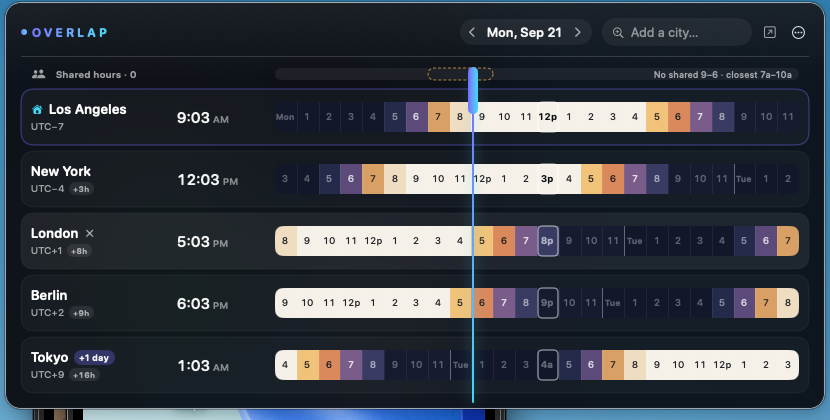
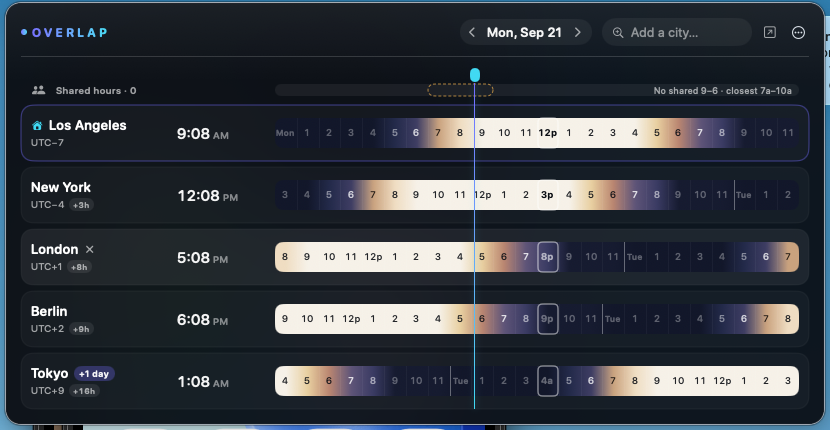
Smooth sky-gradient strips, lighter now marker with pill lane, centered selection pill

diff --git a/Overlap/ContentView.swift b/Overlap/ContentView.swift
@@ -34,31 +34,36 @@ struct ContentView: View {
                 Divider().overlay(Color.white.opacity(0.08))
                     .padding(.vertical, 10)
 
-                BestWindowsBar(store: store,
-                               date: selectedDate,
-                               home: home,
-                               selection: $selection)
-                    .padding(.bottom, 8)
+                VStack(alignment: .leading, spacing: 0) {
+                    // 16pt lane above the track: holds the now-time pill
+                    Color.clear.frame(height: 16)
+                        .overlay(alignment: .topLeading) { nowPill }
 
-                // Rows
-                VStack(spacing: 6) {
-                    ForEach(store.places) { place in
-                        PlaceRow(place: place,
-                                 date: selectedDate,
-                                 now: now,
-                                 home: home,
-                                 use24: use24,
-                                 isToday: isToday,
-                                 hoverHour: $hoverHour,
-                                 selection: $selection)
-                        .transition(.asymmetric(insertion: .push(from: .top).combined(with: .opacity),
-                                                removal: .opacity))
+                    BestWindowsBar(store: store,
+                                   date: selectedDate,
+                                   home: home,
+                                   selection: $selection)
+                        .padding(.bottom, 8)
+
+                    // Rows
+                    VStack(spacing: 6) {
+                        ForEach(store.places) { place in
+                            PlaceRow(place: place,
+                                     date: selectedDate,
+                                     now: now,
+                                     home: home,
+                                     use24: use24,
+                                     isToday: isToday,
+                                     hoverHour: $hoverHour,
+                                     selection: $selection)
+                            .transition(.asymmetric(insertion: .push(from: .top).combined(with: .opacity),
+                                                    removal: .opacity))
+                        }
                     }
+                    .overlay(alignment: .topLeading) { selectionPill }
+                    .animation(.snappy, value: store.places)
                 }
-                .overlay(alignment: .topLeading) {
-                    stripOverlay
-                }
-                .animation(.snappy, value: store.places)
+                .overlay(alignment: .topLeading) { nowLine }
 
                 if let selection {
                     SummaryBar(date: selectedDate,
@@ -134,28 +139,49 @@ struct ContentView: View {
         return "\(f(sel.lowerBound)) – \(f(end))\(suffix)"
     }
 
-    /// Now-line spanning all rows + time pill, and selection range pill.
+    private var nowX: CGFloat? {
+        nowFraction.map { stripX + CGFloat($0) * colPitch }
+    }
+
+    /// Time pill in the 16pt lane, centered on the now-line's x.
     @ViewBuilder
-    private var stripOverlay: some View {
-        if let frac = nowFraction {
-            Capsule()
-                .fill(Theme.accentVertical)
-                .frame(width: 2)
-                .shadow(color: Theme.accentB.opacity(0.6), radius: 6)
-                .padding(.vertical, -10)
-                .overlay(alignment: .top) {
+    private var nowPill: some View {
+        if let x = nowX {
+            Color.clear
+                .frame(width: 0, height: 16)
+                .overlay {
                     Text(nowTimeLabel)
                         .font(.system(size: 9, weight: .semibold))
                         .monospacedDigit()
                         .foregroundStyle(Theme.base)
                         .padding(.horizontal, 5)
-                        .padding(.vertical, 1.5)
-                        .background(Theme.accent, in: Capsule())
-                        .offset(y: -22)
+                        .frame(height: 14)
+                        .background(Theme.accentB, in: Capsule())
                 }
-                .offset(x: stripX + CGFloat(frac) * colPitch - 1)
+                .offset(x: x)
                 .allowsHitTesting(false)
         }
+    }
+
+    /// 1.5pt now-line from the pill's bottom (lane end) to the last row's
+    /// bottom — drawn over lane + track + rows so it sits above the band.
+    @ViewBuilder
+    private var nowLine: some View {
+        if let x = nowX {
+            Capsule()
+                .fill(Theme.accentVertical)
+                .frame(width: 1.5)
+                .shadow(color: Theme.accentB.opacity(0.45), radius: 3)
+                .padding(.top, 16)
+                .offset(x: x - 0.75)
+                .allowsHitTesting(false)
+        }
+    }
+
+    /// Home-range pill centered on the selection band, half-overlapping
+    /// its top edge.
+    @ViewBuilder
+    private var selectionPill: some View {
         if let sel = selection {
             Text(homeRangeLabel(sel))
                 .font(.system(size: 8.5, weight: .semibold))
@@ -165,6 +191,7 @@ struct ContentView: View {
                 .background(Color.white.opacity(0.12), in: Capsule())
                 .overlay(Capsule().stroke(Theme.accentB.opacity(0.6), lineWidth: 0.5))
                 .fixedSize()
+                .frame(width: CGFloat(sel.count) * colPitch)
                 .offset(x: stripX + CGFloat(sel.lowerBound) * colPitch, y: -8)
                 .allowsHitTesting(false)
         }
@@ -175,12 +202,10 @@ struct ContentView: View {
     static let leftColumn: CGFloat = 230
     static let columnGap: CGFloat = 14
     static let cellHeight: CGFloat = 30
-    static let cellSpacing: CGFloat = 3
     static let popoverWidth: CGFloat = 820
     /// Width of the 24-cell strip: popover minus root padding (16×2),
     /// row horizontal padding (10×2), left column and the gap.
     static let stripWidth: CGFloat = popoverWidth - 32 - 20 - leftColumn - columnGap
-    static var cellWidth: CGFloat { stripWidth / 24 - cellSpacing }
 
     // MARK: - Header
 

diff --git a/Overlap/HourStrip.swift b/Overlap/HourStrip.swift
@@ -160,11 +160,20 @@ struct HourStrip: View {
         max(0, min(23, Int(x / colPitch)))
     }
 
+    private func localHour(_ h: Int) -> Int {
+        let inst = TimeMath.instant(homeHour: h, on: date, home: home)
+        return TimeMath.localComponents(of: inst, in: tz).hour ?? 0
+    }
+
     var body: some View {
         ZStack(alignment: .topLeading) {
-            // One continuous sky band: base + clipped cell fills
+            // One continuous sky gradient, sampled at each cell's center
             RoundedRectangle(cornerRadius: 8)
-                .fill(Color(hex: 0x12172A))
+                .fill(
+                    LinearGradient(stops: (0..<24).map { h in
+                        Gradient.Stop(color: Theme.skyFill(localHour: localHour(h)),
+                                      location: (Double(h) + 0.5) / 24)
+                    }, startPoint: .leading, endPoint: .trailing))
             HStack(spacing: 0) {
                 ForEach(0..<24, id: \.self) { h in
                     cell(h)
@@ -227,12 +236,11 @@ struct HourStrip: View {
         let hovered = hoverHour == h
 
         ZStack {
-            Theme.skyFill(localHour: localH)
             // hairline divider between cells; stronger at local midnight
             if h > 0 {
                 HStack(spacing: 0) {
                     Rectangle()
-                        .fill(Color.white.opacity(isMidnight ? 0.35 : 0.06))
+                        .fill(Color.white.opacity(isMidnight ? 0.35 : 0.04))
                         .frame(width: 1)
                     Spacer()
                 }

diff --git a/Overlap/Theme.swift b/Overlap/Theme.swift
@@ -31,13 +31,13 @@ enum Theme {
         switch h {
         case 0...4:  return Color(hex: 0x12172A)
         case 5:      return Color(hex: 0x232A4A)
-        case 6:      return Color(hex: 0x5B4A7A)
-        case 7:      return Color(hex: 0xD9A066)
+        case 6:      return Color(hex: 0x3E3D63)
+        case 7:      return Color(hex: 0xC9A27E)
         case 8:      return Color(hex: 0xEFDDC2)
         case 9...16: return Color(hex: 0xF6F1E8)
-        case 17:     return Color(hex: 0xF0C27A)
-        case 18:     return Color(hex: 0xD9895C)
-        case 19:     return Color(hex: 0x7A5C8A)
+        case 17:     return Color(hex: 0xE8CFA0)
+        case 18:     return Color(hex: 0xB98570)
+        case 19:     return Color(hex: 0x5E5478)
         case 20:     return Color(hex: 0x3A3B63)
         default:     return Color(hex: 0x161B30)   // 21–23
         }
